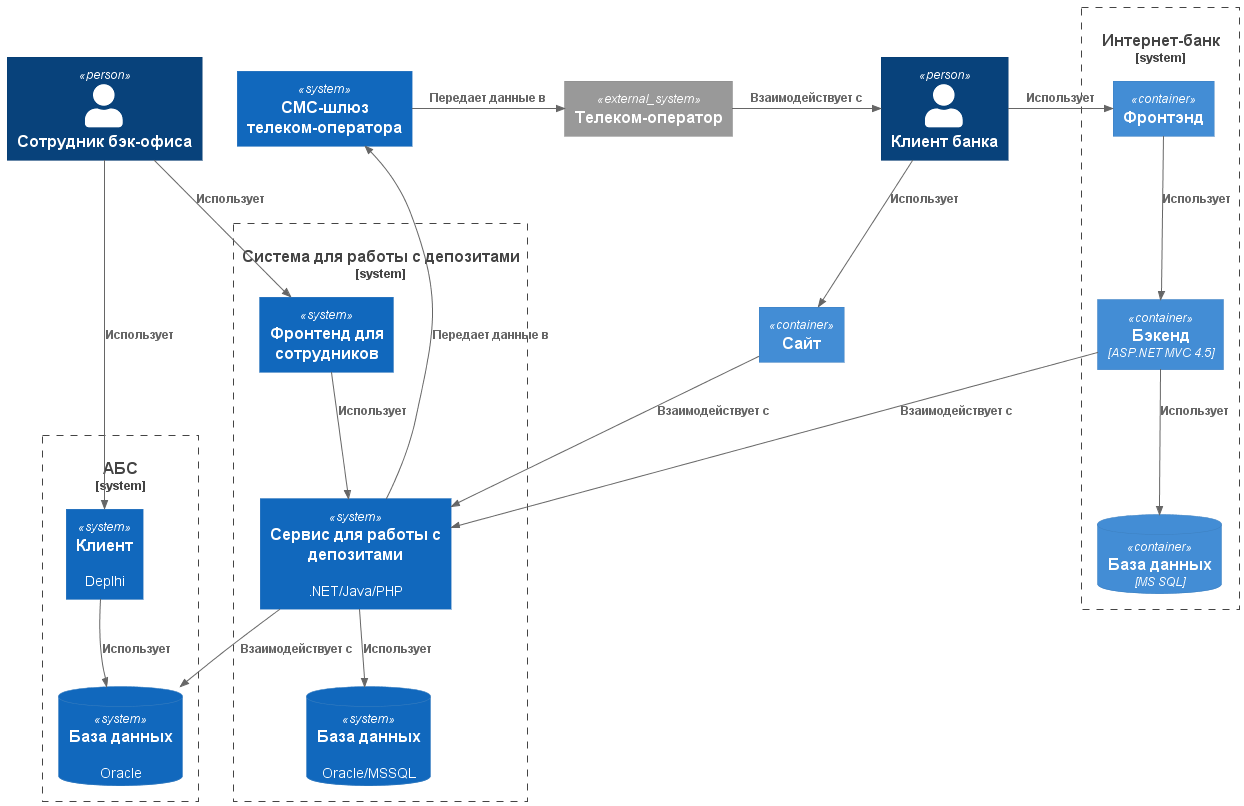
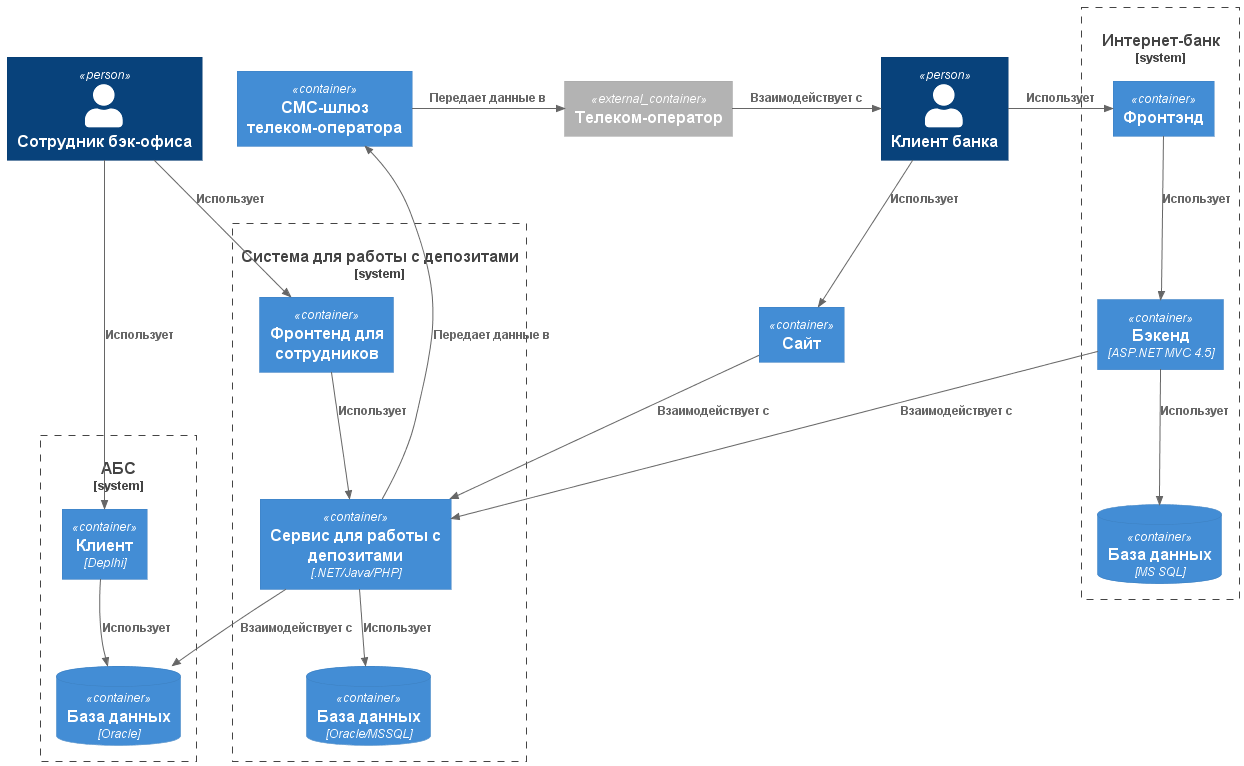
Задача 4

diff --git a/Task3/README.md b/Task3/README.md
@@ -13,17 +13,17 @@
 
 |**№**|**Требование**|
 | :-: | :- |
-| R1  | Доступность 24/7, 99.9% uptime | |
-| R2  | Надежное хранение данных (бэкапы) | |
-| R3  | Резервирование в различных ЦОД | С автоматическим переключением при сбое |
-| R4  | Мониторинг | |
-| P1  | Время отклика пользовательского интерфейса < 500мс | Чем меньше - тем лучше |
-| P2  | Время выполнения операций < 1000мс  | Чем меньше - тем лучше |
-| S1  | Использование существующих технологий банка | Ориентируемся на компетенции текущей команды |
-| S2  | Разработка технической документации | Для возможности дальнейшего развития и поддержки |
-| +R1 | Запрет на прямое взаимодействие интернет-банка с АБС | Из-за высокой нагрузки |
-| +R2 | Требуется шифрование при передаче персональных и платежных данных | |
-| +R3 | При необходимости асинхронного взаимодействия - использовать Kafka | |
+| R1  | Доступность 24/7, 99.9% uptime |
+| R2  | Надежное хранение данных (бэкапы) |
+| R3  | Резервирование в различных ЦОД |
+| R4  | Мониторинг |
+| P1  | Время отклика пользовательского интерфейса < 500мс |
+| P2  | Время выполнения операций < 1000мс  |
+| S1  | Использование существующих технологий банка |
+| S2  | Разработка технической документации |
+| +R1 | Запрет на прямое взаимодействие интернет-банка с АБС |
+| +R2 | Требуется шифрование при передаче персональных и платежных данных |
+| +R3 | При необходимости асинхронного взаимодействия - использовать Kafka |
 
 ### <a name="_qmphm5d6rvi3"></a>**Решение**
 

diff --git a/Task4/README.md b/Task4/README.md
@@ -1,0 +1,39 @@
+### <a name="_b7urdng99y53"></a>**Передача ставок в кол-центр** 
+### <a name="_hjk0fkfyohdk"></a>**Автор: Никитин В.Г.**
+### <a name="_uanumrh8zrui"></a>**Дата: 24.05.2026**
+### <a name="_3bfxc9a45514"></a>**Функциональные требования**
+
+|**№**|**Действующие лица или системы**|**Use Case**|**Описание**|
+| :-: | :- | :- | :- |
+| UC1 | Оператор кол-центра | Получение информации о ставках по депозитам ||
+| UC2 | Оператор партнерского кол-центра | Получение информации о ставках по депозитам ||
+
+### <a name="_u8xz25hbrgql"></a>**Нефункциональные требования**
+
+|**№**|**Требование**|
+| :-: | :- |
+| +R1 | Кол-центр партнера работает во внешней информационной системе |
+| +R2 | Единственный вариант передачи ставок - через файлы |
+
+### <a name="_qmphm5d6rvi3"></a>**Решение**
+
+**Диаграмма контекста**
+
+![Диаграмма контекста](Context.png)
+
+**Диаграмма контейнеров**
+
+![Диаграмма контейнеров](Containers.png)
+
+За основу взят предыдущий вариант архитектуры.
+
+Данное решение выбрано из-за простоты реализации.
+После расчета ставок результирующий файл записывается в файловый архив.
+
+### <a name="_bjrr7veeh80c"></a>**Альтернативы**
+
+Разработать клиент для получения информации оператором партнерского кол-центра (по аналогии с собственным кол-центром).
+
+**Недостатки, ограничения, риски**
+
+- Дополнительная точка взаимодействия с внешним контуром (снижение безопасности)
